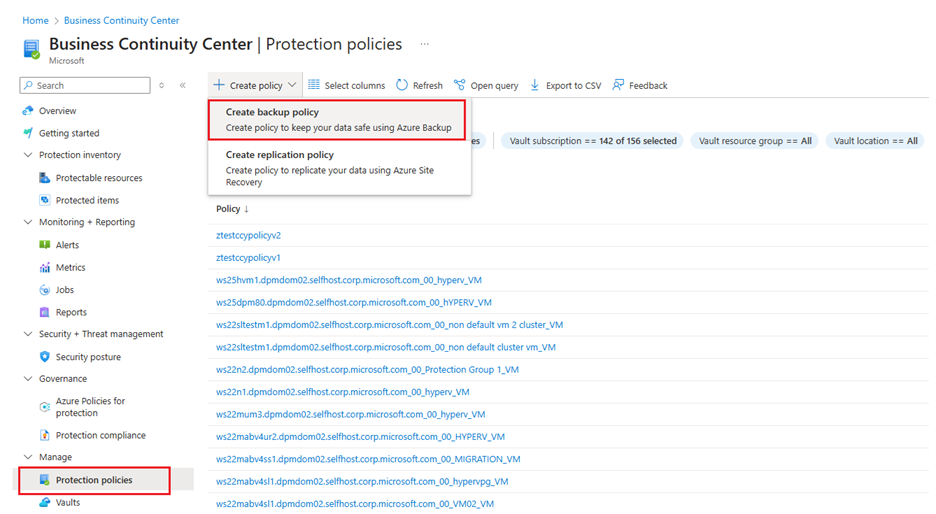
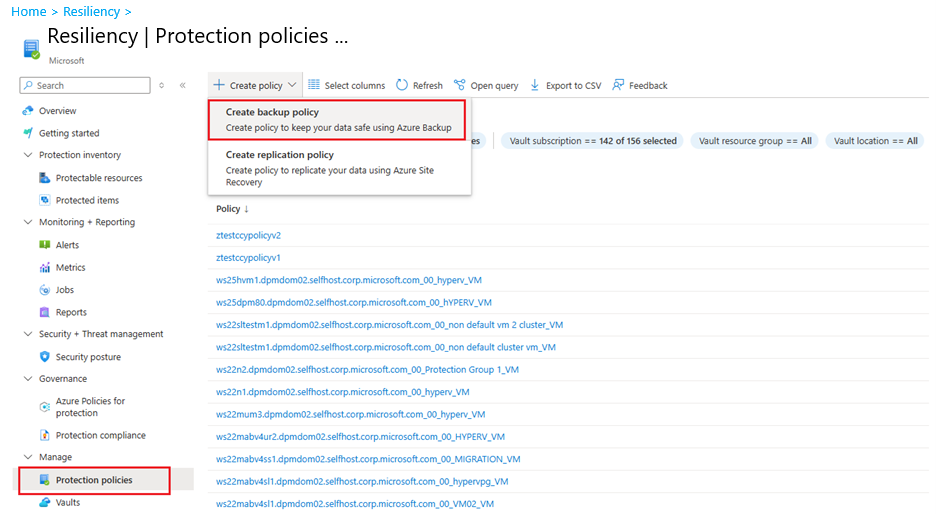
Resiliency flow update - AKS, Az Files, and VM backup quickstarts and tutorial

Changed region(s): [[0.0, 0.0, 0.4338, 0.1245]]

diff --git a/articles/backup/tutorial-backup-vm-at-scale.md b/articles/backup/tutorial-backup-vm-at-scale.md
@@ -1,7 +1,7 @@
 ---
 title: Tutorial - Back Up Multiple Azure Virtual Machines by Using Azure Backup
 description: In this tutorial, learn how to create a Recovery Services vault, define a backup policy, and simultaneously back up multiple virtual machines.
-ms.date: 09/24/2025
+ms.date: 01/28/2026
 ms.topic: tutorial
 ms.custom: mvc, engagement-fy24
 ms.service: azure-backup
@@ -26,7 +26,7 @@ In this tutorial, you:
 > - Assign the policy to help protect multiple virtual machines.
 > - Trigger an on-demand back up for virtual machines.
 
-[!INCLUDE [backup-center.md](../../includes/backup-center.md)]
+[!INCLUDE [resiliency.md](../../includes/resiliency.md)]
 
 [!INCLUDE [How to create a Recovery Services vault](../../includes/backup-create-rs-vault.md)]
 
@@ -38,9 +38,9 @@ After creation of the Recovery Services vault is complete, configure the vault f
 
 To set a backup policy for your Azure VMs, follow these steps:
 
-1. Go to **Backup center**. On the **Overview** tab, select **+Backup**.
+1. Go to **Resiliency**. On the **Overview** tab, select **+ Configure protection**.
 
-   :::image type="content" source="./media/backup-azure-arm-vms-prepare/backup-button.png" alt-text="Screenshot that shows the Backup button.":::
+1. On the **Configure protection** pane, under **Where is your workload running?**, select **Azure**. Under **What do you want to back up?**, select **Virtual machine**. Then select **Continue**.
 
 1. On the **Start: Configure Backup** pane, select **Azure Virtual machines** as the **Datasource type** value, and then select the vault that you created. Then select **Continue**.
 
@@ -95,15 +95,15 @@ You enabled backups for the Recovery Services vaults, but you haven't created an
 
 The initial backup runs in accordance with the schedule, but you can run it immediately as follows:
 
-1. Go to **Backup center** and select **Backup Instances**.
+1. Go to **Resiliency** and select **Protected items**.
 
-1. For **Datasource type**, select **Azure Virtual machines**. Then search for the VM that you configured for backups.
+1. On the **Protected items** pane, for **Datasource type**, select **Azure Virtual machines**. Then search for the VM that you configured for backups.
 
 1. Right-click the relevant row or select the more icon (**…**), and then select **Backup Now**.
 
 1. In **Backup Now**, use the calendar control to select the last day that the recovery point should be retained. Then select **OK**.
 
-1. Monitor the portal notifications. To monitor the job's progress, go to **Backup center** > **Backup Jobs** and filter the list for **In progress** jobs.
+1. Monitor the portal notifications. To monitor the job's progress, go to **Resiliency** > **Jobs** and filter the list for **In progress** jobs.
 
    Depending on the size of your VM, creating the initial backup might take a while.
 

diff --git a/articles/backup/quick-backup-azure-files-vault-tier-portal.md b/articles/backup/quick-backup-azure-files-vault-tier-portal.md
@@ -5,7 +5,7 @@ ms.devlang: azurecli
 ms.custom:
   - ignite-2024
 ms.topic: quickstart
-ms.date: 05/22/2025
+ms.date: 01/28/2026
 ms.service: azure-backup
 author: AbhishekMallick-MS
 ms.author: v-mallicka
@@ -30,7 +30,7 @@ A backup policy defines the schedule, frequency of recovery point creation, and 
 
 To create a backup policy, follow these steps:
 
-1. Go to **Business Continuity Center** > **Protection policies**, and then select **+ Create policy** > **Create backup policy**.
+1. Go to **Resiliency** > **Protection policies**, and then select **+ Create policy** > **Create backup policy**.
 
    :::image type="content" source="./media/tutorial-backup-azure-files-vault-tier-portal/create-backup-policy.png" alt-text="Screenshot shows how to start creating a Backup policy." lightbox="./media/tutorial-backup-azure-files-vault-tier-portal/create-backup-policy.png":::
  

diff --git a/articles/backup/quick-backup-aks.md b/articles/backup/quick-backup-aks.md
@@ -2,7 +2,7 @@
 title: "Quickstart: Configure an Azure Kubernetes Services cluster backup"
 description: Learn how to configure backup for an Azure Kubernetes Service (AKS) cluster, and then use Azure Backup to back up specific items in the cluster.
 ms.topic: quickstart
-ms.date: 01/09/2026
+ms.date: 01/28/2026
 ms.service: azure-backup
 ms.custom:
   - ignite-2024
